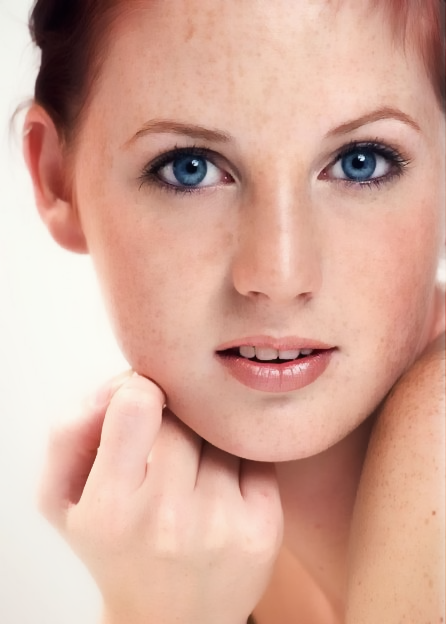
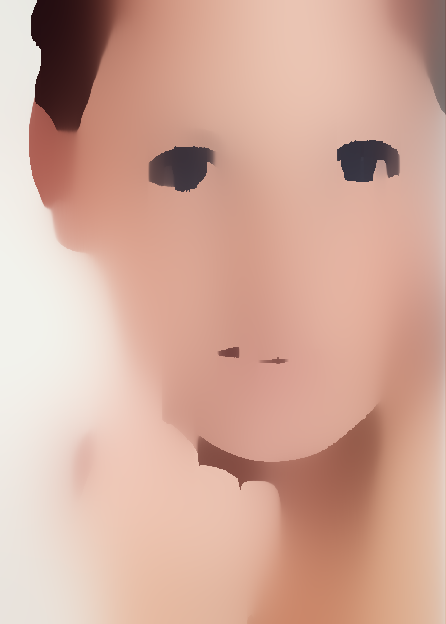
finish gui demo; prepare optimize bilateral filter

diff --git a/GuiDemo/GeneratedFiles/ui_GuiDemo.h b/GuiDemo/GeneratedFiles/ui_GuiDemo.h
@@ -20,7 +20,7 @@
 #include <QtWidgets/QMainWindow>
 #include <QtWidgets/QSlider>
 #include <QtWidgets/QSpacerItem>
-#include <QtWidgets/QTextBrowser>
+#include <QtWidgets/QTextEdit>
 #include <QtWidgets/QVBoxLayout>
 #include <QtWidgets/QWidget>
 
@@ -31,7 +31,7 @@ class Ui_GuiDemoClass
 public:
     QWidget *centralWidget;
     QGridLayout *gridLayout;
-    QLabel *imageLabel;
+    QLabel *beautyLabel;
     QVBoxLayout *verticalLayout;
     QLabel *label_2;
     QSlider *filterLevelSlider;
@@ -39,13 +39,14 @@ public:
     QLabel *label_3;
     QSlider *whiteLevelSlider;
     QSpacerItem *verticalSpacer;
-    QTextBrowser *textBrowser;
+    QTextEdit *textEdit;
+    QLabel *rawLabel;
 
     void setupUi(QMainWindow *GuiDemoClass)
     {
         if (GuiDemoClass->objectName().isEmpty())
             GuiDemoClass->setObjectName(QStringLiteral("GuiDemoClass"));
-        GuiDemoClass->resize(830, 467);
+        GuiDemoClass->resize(1073, 441);
         centralWidget = new QWidget(GuiDemoClass);
         centralWidget->setObjectName(QStringLiteral("centralWidget"));
         gridLayout = new QGridLayout(centralWidget);
@@ -53,15 +54,15 @@ public:
         gridLayout->setContentsMargins(11, 11, 11, 11);
         gridLayout->setObjectName(QStringLiteral("gridLayout"));
         gridLayout->setContentsMargins(0, 0, 0, 0);
-        imageLabel = new QLabel(centralWidget);
-        imageLabel->setObjectName(QStringLiteral("imageLabel"));
+        beautyLabel = new QLabel(centralWidget);
+        beautyLabel->setObjectName(QStringLiteral("beautyLabel"));
         QSizePolicy sizePolicy(QSizePolicy::Expanding, QSizePolicy::Expanding);
         sizePolicy.setHorizontalStretch(0);
         sizePolicy.setVerticalStretch(0);
-        sizePolicy.setHeightForWidth(imageLabel->sizePolicy().hasHeightForWidth());
-        imageLabel->setSizePolicy(sizePolicy);
+        sizePolicy.setHeightForWidth(beautyLabel->sizePolicy().hasHeightForWidth());
+        beautyLabel->setSizePolicy(sizePolicy);
 
-        gridLayout->addWidget(imageLabel, 0, 0, 1, 1);
+        gridLayout->addWidget(beautyLabel, 0, 1, 1, 1);
 
         verticalLayout = new QVBoxLayout();
         verticalLayout->setSpacing(6);
@@ -109,20 +110,28 @@ public:
 
         verticalLayout->addItem(verticalSpacer);
 
-        textBrowser = new QTextBrowser(centralWidget);
-        textBrowser->setObjectName(QStringLiteral("textBrowser"));
+        textEdit = new QTextEdit(centralWidget);
+        textEdit->setObjectName(QStringLiteral("textEdit"));
         QSizePolicy sizePolicy2(QSizePolicy::Minimum, QSizePolicy::Expanding);
         sizePolicy2.setHorizontalStretch(0);
         sizePolicy2.setVerticalStretch(0);
-        sizePolicy2.setHeightForWidth(textBrowser->sizePolicy().hasHeightForWidth());
-        textBrowser->setSizePolicy(sizePolicy2);
-        textBrowser->setMinimumSize(QSize(200, 0));
+        sizePolicy2.setHeightForWidth(textEdit->sizePolicy().hasHeightForWidth());
+        textEdit->setSizePolicy(sizePolicy2);
+        textEdit->setMinimumSize(QSize(200, 0));
 
-        verticalLayout->addWidget(textBrowser);
+        verticalLayout->addWidget(textEdit);
 
 
-        gridLayout->addLayout(verticalLayout, 0, 1, 1, 1);
+        gridLayout->addLayout(verticalLayout, 0, 2, 1, 1);
 
+        rawLabel = new QLabel(centralWidget);
+        rawLabel->setObjectName(QStringLiteral("rawLabel"));
+
+        gridLayout->addWidget(rawLabel, 0, 0, 1, 1);
+
+        gridLayout->setColumnStretch(0, 2);
+        gridLayout->setColumnStretch(1, 2);
+        gridLayout->setColumnStretch(2, 1);
         GuiDemoClass->setCentralWidget(centralWidget);
 
         retranslateUi(GuiDemoClass);
@@ -133,9 +142,10 @@ public:
     void retranslateUi(QMainWindow *GuiDemoClass)
     {
         GuiDemoClass->setWindowTitle(QApplication::translate("GuiDemoClass", "GuiDemo", Q_NULLPTR));
-        imageLabel->setText(QString());
+        beautyLabel->setText(QString());
         label_2->setText(QApplication::translate("GuiDemoClass", "\347\243\250\347\232\256\347\250\213\345\272\246", Q_NULLPTR));
         label_3->setText(QApplication::translate("GuiDemoClass", "\347\276\216\347\231\275\347\250\213\345\272\246", Q_NULLPTR));
+        rawLabel->setText(QString());
     } // retranslateUi
 
 };

diff --git a/GuiDemo/GuiDemo.cpp b/GuiDemo/GuiDemo.cpp
@@ -1,6 +1,9 @@
 #include "GuiDemo.h"
 #include <QTimer>
 #include <iostream>
+#include <opencv2/opencv.hpp>
+#include "../FaceBeauty/EdgePreservingFilter.h"
+#include "../FaceBeauty/skinWhiten.h"
 
 GuiDemo::GuiDemo(QWidget *parent)
 	: QMainWindow(parent)
@@ -10,16 +13,32 @@ GuiDemo::GuiDemo(QWidget *parent)
 	if (initVideoCapture()) {
 		rate = videoCapture.get(cv::CAP_PROP_FPS);
 		rate = 15.0f;
-		videoCapture >> mCVFrame;
-		if (!mCVFrame.empty()) {
-			mImage = mat2Image(mCVFrame);
-			ui.imageLabel->setPixmap(QPixmap::fromImage(mImage));
+		videoCapture >> mRawFrame;
+		if (!mRawFrame.empty()) {
+			int width = mRawFrame.cols;
+			int height = mRawFrame.rows;
+			int channel = mRawFrame.channels();
+			const int width_height = width * height;
+			const int width_channel = width * channel;
+			const int width_height_channel = width * height * channel;
+			interBuf = new float[(width_height_channel + width_height
+								     + width_channel + width) * 2];
+
+
+			mBeautyFrame = mRawFrame.clone();
+			mRawImage = mat2Image(mRawFrame);
+			ui.rawLabel->setPixmap(QPixmap::fromImage(mRawImage));
 			mTimer = new QTimer(this);
 			mTimer->setInterval(1000 / rate);
 			connect(mTimer, SIGNAL(timeout()), this, SLOT(nextFrame()));
 			mTimer->start();
 		}
 	}
+}
+
+GuiDemo::~GuiDemo()
+{
+	delete[] interBuf;
 }
 
 bool GuiDemo::initVideoCapture()
@@ -33,7 +52,20 @@ bool GuiDemo::initVideoCapture()
 
 void GuiDemo::faceBeautyProcess()
 {
+	unsigned long beginTime, endTime;
+	beginTime = clock();
 
+	filter_by_rbf(mRawFrame, mBeautyFrame, buffingLevel, 0.1, interBuf);
+
+	skinWhiten_brightness(mBeautyFrame, whiteLevel);
+
+	endTime = clock();
+	float elapsedTime = float((unsigned long)endTime - beginTime) / CLOCKS_PER_SEC;
+	float fps = 1.0 / elapsedTime;
+	int width = mRawFrame.cols;
+	int height = mRawFrame.rows;
+	QString outStr = QString("Image(%1*%2) -- %3ms -- %4fps").arg(width).arg(height).arg(elapsedTime*1000).arg(fps);
+	outputLog(outStr);
 }
 
 QImage GuiDemo::mat2Image(cv::Mat& cvImg)
@@ -68,18 +100,34 @@ QImage GuiDemo::mat2Image(cv::Mat& cvImg)
 
 void GuiDemo::outputLog(QString cnt)
 {
-	
+	ui.textEdit->append(cnt);
 }
 
 void GuiDemo::nextFrame()
 {
-	std::cout << "nextFrame" << std::endl;
 
-	videoCapture >> mCVFrame;
+	videoCapture >> mRawFrame;
 
-	if (!mCVFrame.empty()) {
-		mImage = mat2Image(mCVFrame);
-		ui.imageLabel->setPixmap(QPixmap::fromImage(mImage));
+	if (!mRawFrame.empty()) {
+
+		faceBeautyProcess();
+
+		mRawImage = mat2Image(mRawFrame);
+		ui.rawLabel->setPixmap(QPixmap::fromImage(mRawImage));
+		mBeautyImage = mat2Image(mBeautyFrame);
+		ui.beautyLabel->setPixmap(QPixmap::fromImage(mBeautyImage));
 		update();
 	}
+}
+
+void GuiDemo::on_filterLevelSlider_valueChanged(int level)
+{
+	buffingLevel = (BUFFING_LEVEL_MAX - BUFFING_LEVEL_MIN) / 100.0 * level;
+	std::cout << "buffingLevel: " << buffingLevel << std::endl;
+}
+
+void GuiDemo::on_whiteLevelSlider_valueChanged(int level)
+{
+	whiteLevel = (WHITEN_LEVEL_MAX - WHITEN_LEVEL_MIN) / 100.0 * level;
+	std::cout << "whiteLevel: " << whiteLevel << std::endl;
 }

diff --git a/FaceBeauty/test_pic_mode.cpp b/FaceBeauty/test_pic_mode.cpp
@@ -33,7 +33,7 @@ int main(int argc, char* argv[])
 	//-----------------------------------------------
 	timer.start();
 
-	cv::Mat outFrame;
+	cv::Mat outFrame(inFrame.size(), inFrame.type());
 
 	//whiteBalance(inFrame, outFrame);
 	//cv::imshow("whiteBalance", outFrame);
@@ -42,13 +42,24 @@ int main(int argc, char* argv[])
 	//filter_by_bilaterFiler_opencv(inFrame, outFrame, d, d * 2, d * 2);
 	float sigma_spatial = 0.01f;
 	float sigma_range = 0.1f;
-	filter_by_rbf(inFrame, outFrame, sigma_spatial, sigma_range);
+	int width = inFrame.cols;
+	int height = inFrame.rows;
+	int channel = inFrame.channels();
+	const int width_height = width * height;
+	const int width_channel = width * channel;
+	const int width_height_channel = width * height * channel;
+	float *buffer = new float[(width_height_channel + width_height
+		+ width_channel + width) * 2];
+	filter_by_rbf(inFrame, outFrame, sigma_spatial, sigma_range, buffer);
+	delete[] buffer;
 	//float lambda = 0.63;
 	//int K = 10;
 	//int niters = 2;
 	//filter_by_AnisotropicFilter(inFrame, outFrame, lambda, K, niters);
+	std::cout << timer.elapsedTime() * 1000 << std::endl;
 
-	cv::imwrite("result.jpg", outFrame);
+
+	//cv::imwrite("result.jpg", outFrame);
 	//cv::Mat skinMask;
 	//skinSegment_hsv(inFrame, skinMask);
 	//cv::imshow("skinMask", skinMask);

diff --git a/FaceBeauty/EdgePreservingFilter.cpp b/FaceBeauty/EdgePreservingFilter.cpp
@@ -7,18 +7,18 @@
 #define CLIP3(x, a, b) MIN2(MAX2(a,x), b)
 
 void filter_by_rbf(cv::Mat& inFrame, cv::Mat& outFrame, 
-							 float sigma_spatial, float sigma_range)
+							 float sigma_spatial, float sigma_range, float *buffer)
 {
-	uint8_t *img_out = NULL;
+	uint8_t *img_out = outFrame.ptr(0);
 	int width = inFrame.cols;
 	int height = inFrame.rows;
 	int channels = inFrame.channels();
 
-	outFrame = cv::Mat::zeros(inFrame.size(), inFrame.type());
+	//outFrame = cv::Mat::zeros(inFrame.size(), inFrame.type());
 
 	recursive_bf(inFrame.ptr(0), img_out, 
 				sigma_spatial, sigma_range,
-				width, height, channels);
+				width, height, channels, buffer);
 
 	uint8_t *pImg = img_out;
 	for (int i = 0; i < height; i++) {
@@ -28,7 +28,7 @@ void filter_by_rbf(cv::Mat& inFrame, cv::Mat& outFrame,
 		pImg += rowLen;
 	}
 
-	delete[] img_out;
+	//delete[] img_out;
 }
 
 void filter_by_bilaterFiler_opencv(cv::Mat& inFrame, cv::Mat& outFrame,

diff --git a/GuiDemo/GuiDemo.h b/GuiDemo/GuiDemo.h
@@ -4,13 +4,18 @@
 #include "ui_GuiDemo.h"
 #include <opencv2/opencv.hpp>
 
+#define BUFFING_LEVEL_MAX	0.07
+#define BUFFING_LEVEL_MIN	0.0
+#define WHITEN_LEVEL_MAX	1.0
+#define WHITEN_LEVEL_MIN	0.0
+
 class GuiDemo : public QMainWindow
 {
 	Q_OBJECT
 
 public:
 	GuiDemo(QWidget *parent = Q_NULLPTR);
-
+	~GuiDemo();
 private:
 	bool initVideoCapture();
 	void faceBeautyProcess();
@@ -19,14 +24,22 @@ private:
 	void outputLog(QString cnt);
 private slots:
 	void nextFrame();
+	void on_filterLevelSlider_valueChanged(int level);
+	void on_whiteLevelSlider_valueChanged(int level);
 private:
 	Ui::GuiDemoClass ui;
 
-	QImage mImage;
-	cv::Mat mCVFrame;
+	QImage mRawImage;
+	QImage mBeautyImage;
+	cv::Mat mRawFrame;
 	cv::Mat mBeautyFrame;
 	cv::VideoCapture videoCapture;
 
 	QTimer *mTimer;
 	double rate;
+
+	float buffingLevel = 0.0f;
+	float whiteLevel = 0.0f;
+
+	float *interBuf = nullptr;
 };

diff --git a/FaceBeauty/EdgePreservingFilter.h b/FaceBeauty/EdgePreservingFilter.h
@@ -4,7 +4,7 @@
 #include <opencv2/core.hpp>
 
 void filter_by_rbf(cv::Mat& inFrame, cv::Mat& outFrame, 
-						     float sigma_spatial, float sigma_range);
+						     float sigma_spatial, float sigma_range, float *buffer = 0);
 
 void filter_by_bilaterFiler_opencv(cv::Mat& inFrame, cv::Mat& outFrame,
 							int d, double sigma_color, double sigma_space);
